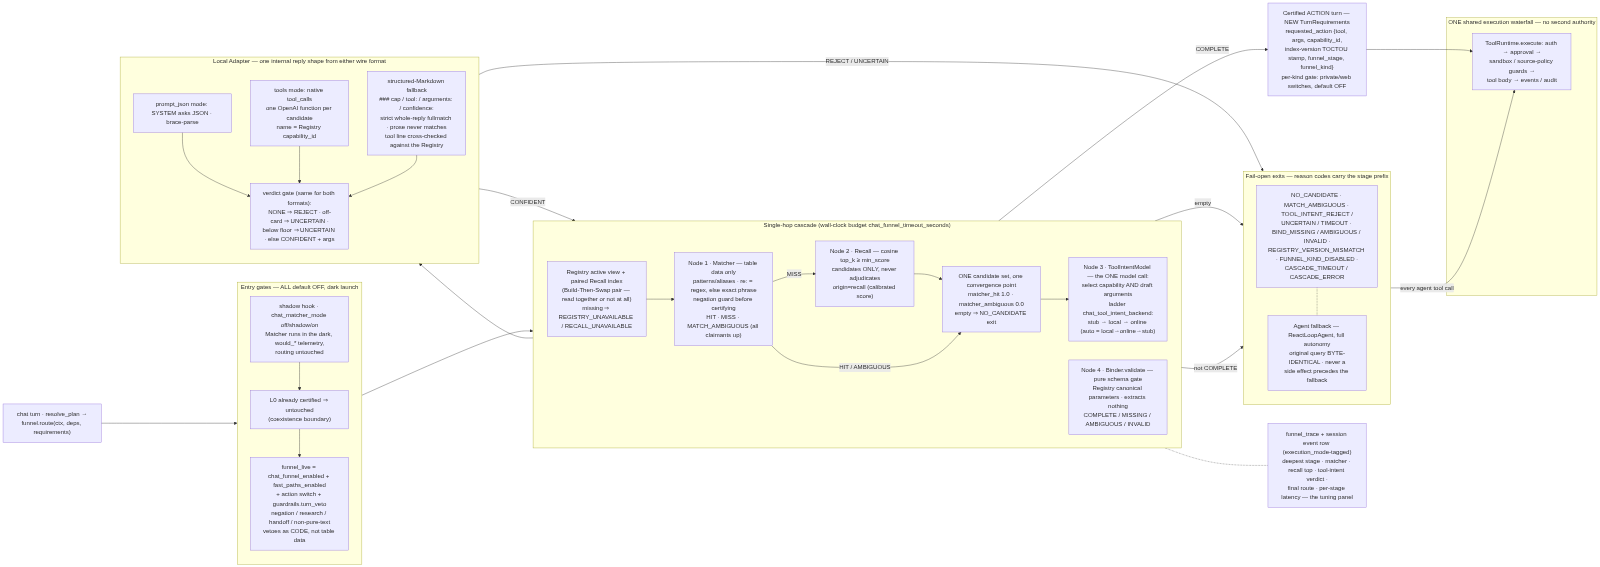
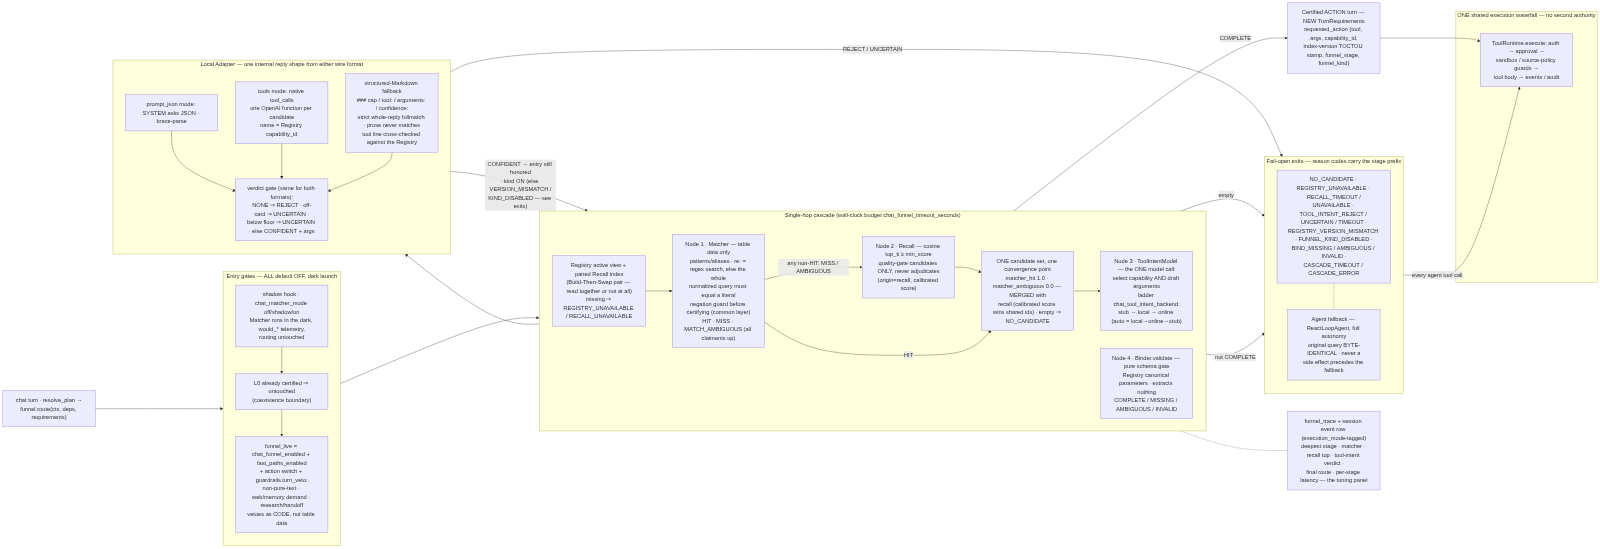
docs(diagrams): reconcile the intent-funnel flow with the shipped cascade
Four drifts against funnel.py/_run_nodes: Recall runs on ANY non-HIT (AMBIGUOUS
merges with recall-calibrated candidates, not a direct CAND edge); the
VERSION_MISMATCH and KIND_DISABLED gates sit between the CONFIDENT verdict and
the Binder (not inside the certified turn); MATCH_AMBIGUOUS is a Matcher state,
never a fail-open reason (REASONS now lists REGISTRY_UNAVAILABLE/RECALL_TIMEOUT);
turn_veto covers non-pure-text/web-memory/research-handoff while the negation
guard belongs to the Matcher layer. Re-render the PNG.

diff --git a/docs/architecture-diagrams.md b/docs/architecture-diagrams.md
@@ -400,7 +400,7 @@ flowchart LR
         direction TB
         SHADOW["shadow hook · chat_matcher_mode off/shadow/on<br/>Matcher runs in the dark, would_* telemetry,<br/>routing untouched"]
         L0B["L0 already certified ⇒ untouched<br/>(coexistence boundary)"]
-        GATE["funnel_live = chat_funnel_enabled + fast_paths_enabled<br/>+ action switch + guardrails.turn_veto<br/>negation / research / handoff / non-pure-text<br/>vetoes as CODE, not table data"]
+        GATE["funnel_live = chat_funnel_enabled + fast_paths_enabled<br/>+ action switch + guardrails.turn_veto:<br/>non-pure-text · web/memory demand · research/handoff<br/>vetoes as CODE, not table data"]
         SHADOW --> L0B --> GATE
     end
     USER --> SHADOW
@@ -408,14 +408,14 @@ flowchart LR
     subgraph cascade["Single-hop cascade (wall-clock budget chat_funnel_timeout_seconds)"]
         direction LR
         REG["Registry active view + paired Recall index<br/>(Build-Then-Swap pair — read together or not at all)<br/>missing ⇒ REGISTRY_UNAVAILABLE / RECALL_UNAVAILABLE"]
-        M["Node 1 · Matcher — table data only<br/>patterns/aliases · re: = regex, else exact phrase<br/>negation guard before certifying<br/>HIT · MISS · MATCH_AMBIGUOUS (all claimants up)"]
-        R["Node 2 · Recall — cosine top_k ≥ min_score<br/>candidates ONLY, never adjudicates<br/>origin=recall (calibrated score)"]
-        CAND["ONE candidate set, one convergence point<br/>matcher_hit 1.0 · matcher_ambiguous 0.0<br/>empty ⇒ NO_CANDIDATE exit"]
+        M["Node 1 · Matcher — table data only<br/>patterns/aliases · re: = regex search, else the whole<br/>normalized query must equal a literal<br/>negation guard before certifying (common layer)<br/>HIT · MISS · MATCH_AMBIGUOUS (all claimants up)"]
+        R["Node 2 · Recall — cosine top_k ≥ min_score<br/>quality-gate candidates ONLY, never adjudicates<br/>(origin=recall, calibrated score)"]
+        CAND["ONE candidate set, one convergence point<br/>matcher_hit 1.0 · matcher_ambiguous 0.0 — MERGED with<br/>recall (calibrated score wins shared ids) · empty ⇒ NO_CANDIDATE"]
         TI["Node 3 · ToolIntentModel — the ONE model call:<br/>select capability AND draft arguments<br/>ladder chat_tool_intent_backend:<br/>stub → local → online (auto = local→online→stub)"]
         B["Node 4 · Binder.validate — pure schema gate<br/>Registry canonical parameters · extracts nothing<br/>COMPLETE / MISSING / AMBIGUOUS / INVALID"]
         REG --> M
-        M -- "MISS" --> R --> CAND
-        M -- "HIT / AMBIGUOUS" --> CAND
+        M -- "any non-HIT: MISS / AMBIGUOUS" --> R --> CAND
+        M -- "HIT" --> CAND
     end
     GATE --> REG
 
@@ -432,15 +432,15 @@ flowchart LR
     subgraph exits["Fail-open exits — reason codes carry the stage prefix"]
         direction TB
         AG["Agent fallback — ReactLoopAgent, full autonomy<br/>original query BYTE-IDENTICAL · never a<br/>side effect precedes the fallback"]
-        REASONS["NO_CANDIDATE · MATCH_AMBIGUOUS · TOOL_INTENT_REJECT /<br/>UNCERTAIN / TIMEOUT · BIND_MISSING / AMBIGUOUS / INVALID ·<br/>REGISTRY_VERSION_MISMATCH · FUNNEL_KIND_DISABLED ·<br/>CASCADE_TIMEOUT / CASCADE_ERROR"]
+        REASONS["NO_CANDIDATE · REGISTRY_UNAVAILABLE · RECALL_TIMEOUT /<br/>UNAVAILABLE · TOOL_INTENT_REJECT / UNCERTAIN / TIMEOUT ·<br/>REGISTRY_VERSION_MISMATCH · FUNNEL_KIND_DISABLED ·<br/>BIND_MISSING / AMBIGUOUS / INVALID ·<br/>CASCADE_TIMEOUT / CASCADE_ERROR"]
         REASONS -.- AG
     end
     CAND -- empty --> AG
     GATE2 -- "REJECT / UNCERTAIN" --> AG
-    GATE2 -- CONFIDENT --> B
+    GATE2 -- "CONFIDENT → entry still honored<br/>· kind ON (else VERSION_MISMATCH /<br/>KIND_DISABLED — see exits)" --> B
     B -- "not COMPLETE" --> AG
 
-    CERT["Certified ACTION turn — NEW TurnRequirements<br/>requested_action {tool, args, capability_id,<br/>index-version TOCTOU stamp, funnel_stage, funnel_kind}<br/>per-kind gate: private/web switches, default OFF"]
+    CERT["Certified ACTION turn — NEW TurnRequirements<br/>requested_action {tool, args, capability_id,<br/>index-version TOCTOU stamp, funnel_stage, funnel_kind}"]
     B -- COMPLETE --> CERT
 
     subgraph runtime["ONE shared execution waterfall — no second authority"]
